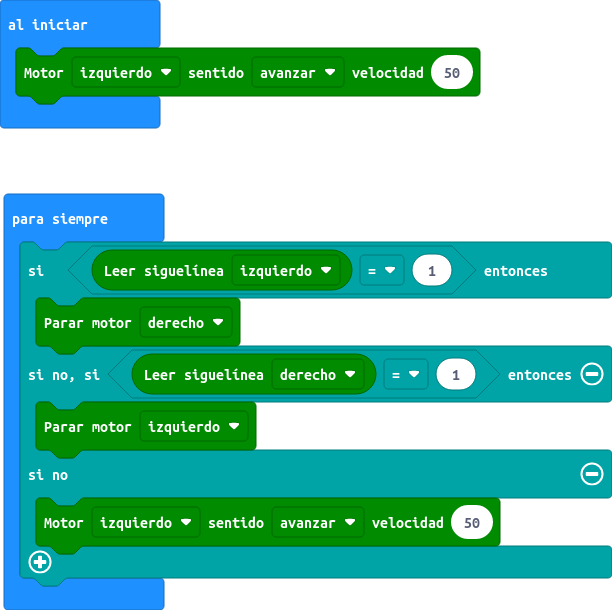
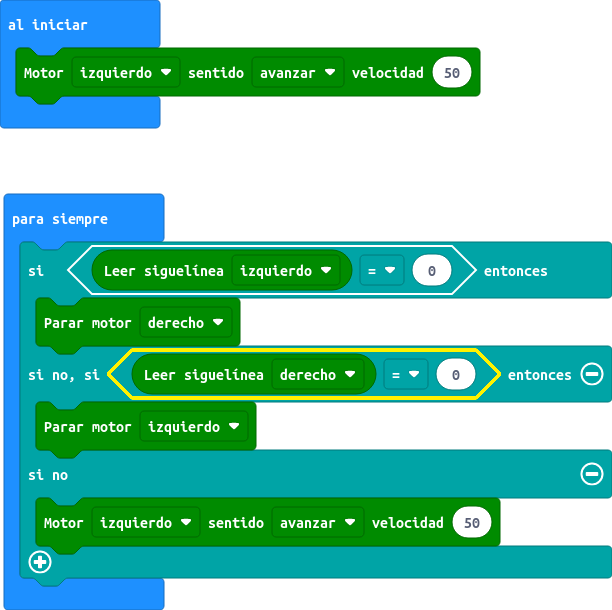
Actualizar main.blocks, main.ts

diff --git a/main.ts b/main.ts
@@ -1,8 +1,8 @@
 maqueen.motorRun(maqueen.Motors.M1, maqueen.Dir.CW, 50)
 basic.forever(function () {
-    if (maqueen.readPatrol(maqueen.Patrol.PatrolLeft) == 1) {
+    if (maqueen.readPatrol(maqueen.Patrol.PatrolLeft) == 0) {
         maqueen.motorStop(maqueen.Motors.M2)
-    } else if (maqueen.readPatrol(maqueen.Patrol.PatrolRight) == 1) {
+    } else if (maqueen.readPatrol(maqueen.Patrol.PatrolRight) == 0) {
         maqueen.motorStop(maqueen.Motors.M1)
     } else {
         maqueen.motorRun(maqueen.Motors.M1, maqueen.Dir.CW, 50)
